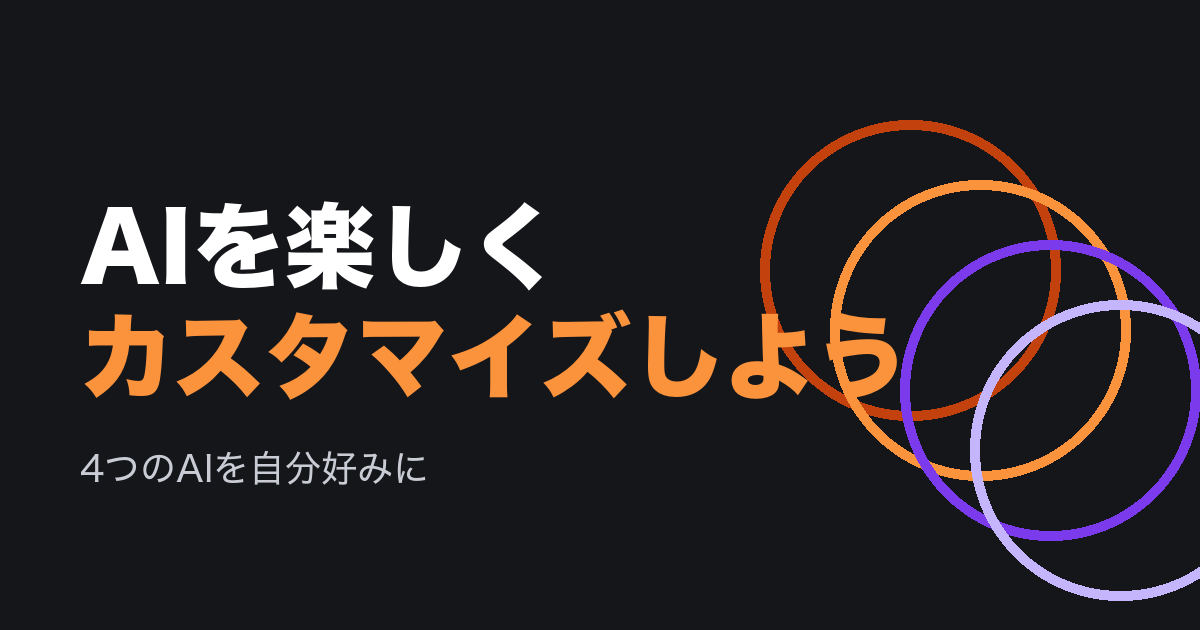
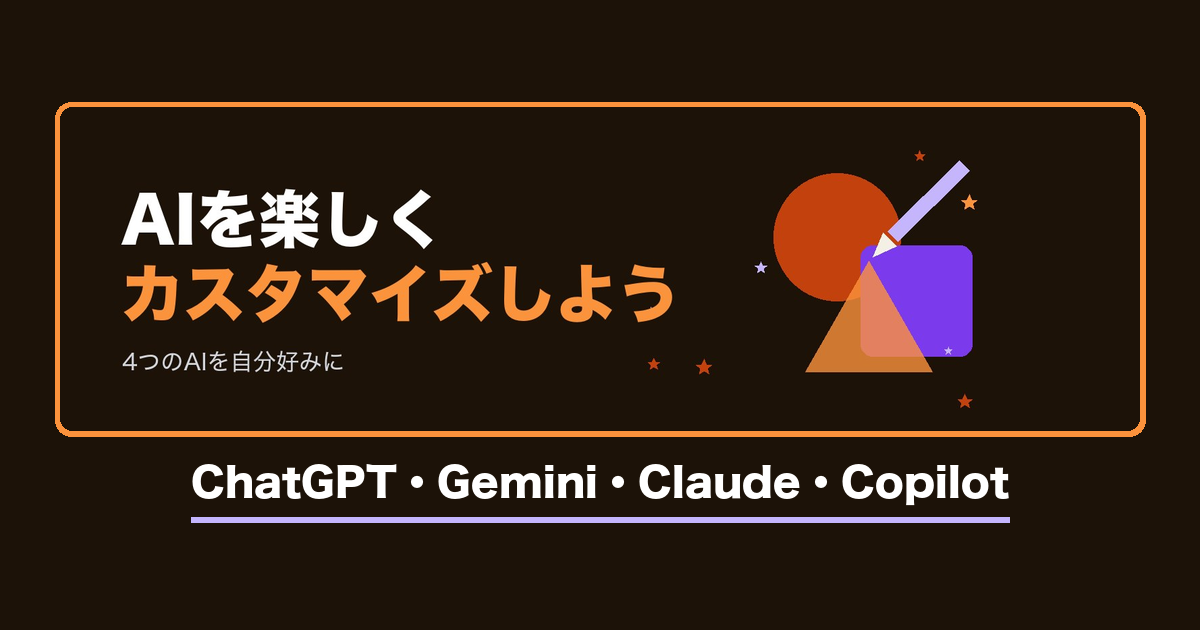
OGP画像（シェア時の画像）をヘッダーの絵とサイトの見た目に合わせて作り直す

Changed region(s): [[0.0308, 0.1508, 1.0, 0.9048], [0.8942, 0.9048, 1.0, 0.9651], [0.8633, 0.9048, 0.8942, 0.9349]]

diff --git a/make_og.py b/make_og.py
@@ -1,17 +1,119 @@
-"""SNS共有用の画像 docs/og.png（1200x630）を site.json の og 設定から作る。作品画像は使わず図形と文字だけ。"""
+"""SNS共有用の画像 docs/og.png（1200x630）を site.json の og 設定から作る。作品画像は使わず図形と文字だけ。
+og.style（neon / riso / citypop / notebook / frame）があるサイトは、ヘッダー画像（images.header_image）をサイトの見た目に合わせた枠で囲み、
+下に og.card_sub（無ければ og.sub）を置く（2026-10-27 本人「OGP画像もサイトごとに変えて」）。"""
 import json, os
-from PIL import Image, ImageDraw, ImageFont
+from PIL import Image, ImageDraw, ImageFont, ImageFilter
 ROOT = os.path.dirname(os.path.abspath(__file__))
-og = json.load(open(os.path.join(ROOT, "site.json"), encoding="utf-8"))["og"]
+cfg = json.load(open(os.path.join(ROOT, "site.json"), encoding="utf-8"))
+og = cfg["og"]
 W, H = 1200, 630
-im = Image.new("RGB", (W, H), "#15161a")
-d = ImageDraw.Draw(im)
-for i, c in enumerate(og["rings"]):
-    d.ellipse((760 + i * 70, 120 + i * 60, 1060 + i * 70, 420 + i * 60), outline=c, width=10)
-font = "/System/Library/Fonts/ヒラギノ角ゴシック W8.ttc"
-f1, f2 = ImageFont.truetype(font, 92), ImageFont.truetype(font.replace("W8", "W4"), 36)
-d.text((80, 200), og["line1"], font=f1, fill="#ffffff")
-d.text((80, 310), og["line2"], font=f1, fill=og["rings"][1])
-d.text((80, 450), og["sub"], font=f2, fill="#c9ccd4")
+GOTHIC = "/System/Library/Fonts/ヒラギノ角ゴシック W8.ttc"
+MARU = "/System/Library/Fonts/ヒラギノ丸ゴ ProN W4.ttc"
+
+
+def rings():
+    im = Image.new("RGB", (W, H), "#15161a")
+    d = ImageDraw.Draw(im)
+    for i, c in enumerate(og["rings"]):
+        d.ellipse((760 + i * 70, 120 + i * 60, 1060 + i * 70, 420 + i * 60), outline=c, width=10)
+    f1, f2 = ImageFont.truetype(GOTHIC, 92), ImageFont.truetype(GOTHIC.replace("W8", "W4"), 36)
+    d.text((80, 200), og["line1"], font=f1, fill="#ffffff")
+    d.text((80, 310), og["line2"], font=f1, fill=og["rings"][1])
+    d.text((80, 450), og["sub"], font=f2, fill="#c9ccd4")
+    return im
+
+
+def round_mask(size, r):
+    m = Image.new("L", size, 0)
+    ImageDraw.Draw(m).rounded_rectangle((0, 0, size[0] - 1, size[1] - 1), r, fill=255)
+    return m
+
+
+def glow(im, draw_fn, color, blur):
+    """draw_fn(ImageDraw) で描いた形を、ぼかした光として im に重ねる"""
+    m = Image.new("L", (W, H), 0)
+    draw_fn(ImageDraw.Draw(m))
+    m = m.filter(ImageFilter.GaussianBlur(blur))
+    im.paste(Image.new("RGB", (W, H), color), (0, 0), m)
+
+
+def styled(style):
+    hdr = Image.open(os.path.join(ROOT, cfg["images"]["header_image"])).convert("RGB")
+    iw = 1080
+    hdr = hdr.resize((iw, round(hdr.height * iw / hdr.width)), Image.LANCZOS)
+    if hdr.height > H - 132:  # 縦に長いヘッダーは、下の文字が入る高さまで縮める
+        hdr = hdr.resize((round(hdr.width * (H - 132) / hdr.height), H - 132), Image.LANCZOS)
+    iw, ih = hdr.size
+    x, y = (W - iw) // 2, (H - ih - 92) // 2
+    ty = y + ih + 30  # 下の文字の上端
+    sub = og.get("card_sub", og["sub"])
+    if style == "neon":  # ネオンのライブ会場
+        im = Image.new("RGB", (W, H), "#130c25")
+        glow(im, lambda d: d.ellipse((200, -380, 1000, 260), fill=255), "#3b1a6e", 60)
+        glow(im, lambda d: d.rounded_rectangle((x - 4, y - 4, x + iw + 4, y + ih + 4), 22, outline=255, width=12), "#ff4fc4", 14)
+        d = ImageDraw.Draw(im)
+        d.rounded_rectangle((x - 3, y - 3, x + iw + 3, y + ih + 3), 20, outline="#ffb3ea", width=3)
+        im.paste(hdr, (x, y), round_mask(hdr.size, 18))
+        f = ImageFont.truetype(MARU, 44)
+        tx = (W - d.textlength(sub, font=f)) / 2
+        glow(im, lambda d: d.text((tx, ty), sub, font=f, fill=255), "#ff4fc4", 8)
+        ImageDraw.Draw(im).text((tx, ty), sub, font=f, fill="#ffffff")
+    elif style == "riso":  # 版画風の紙
+        im = Image.new("RGB", (W, H), "#f6eedb")
+        d = ImageDraw.Draw(im)
+        for yy in range(0, H, 6):
+            for xx in range(0, W, 6):
+                d.point((xx, yy), fill="#e3d7bd")
+        d.rectangle((x + 12, y + 12, x + iw + 12, y + ih + 12), fill="#b8321c")
+        im.paste(hdr, (x, y))
+        d.rectangle((x - 2, y - 2, x + iw + 2, y + ih + 2), outline="#3a2416", width=5)
+        f = ImageFont.truetype(GOTHIC, 40)
+        tw = d.textlength(sub, font=f)
+        bx = (W - tw) / 2
+        d.rectangle((bx - 24 + 6, ty - 6 + 6, bx + tw + 24 + 6, ty + 56 + 6), fill="#3a2416")
+        d.rectangle((bx - 24, ty - 6, bx + tw + 24, ty + 56), fill="#d4920f", outline="#3a2416", width=4)
+        d.text((bx, ty + 2), sub, font=f, fill="#3a2416")
+    elif style == "citypop":  # 80 年代シティポップの夕暮れ
+        im = Image.new("RGB", (W, H))
+        d = ImageDraw.Draw(im)
+        for yy in range(H):
+            t = yy / H
+            d.line((0, yy, W, yy), fill=tuple(round(a + (b - a) * t) for a, b in ((0x2b, 0x17), (0x1f, 0x14), (0x5c, 0x3a))))
+        im.paste(hdr, (x, y), round_mask(hdr.size, 8))
+        for i, c in enumerate(("#ffb15c", "#ff7eb6", "#8e6bff")):
+            d.rectangle((x, y + ih + 10 + i * 8, x + iw, y + ih + 14 + i * 8), fill=c)
+        f = ImageFont.truetype(GOTHIC, 40)
+        d.text(((W - d.textlength(sub, font=f)) / 2, ty + 20), sub, font=f, fill="#ffffff")
+    elif style == "notebook":  # 白地の方眼ノート
+        im = Image.new("RGB", (W, H), "#ffffff")
+        d = ImageDraw.Draw(im)
+        for v in range(0, W, 24):
+            d.line((v, 0, v, H), fill="#e8ecfa")
+        for v in range(0, H, 24):
+            d.line((0, v, W, v), fill="#e8ecfa")
+        d.rounded_rectangle((x + 10, y + 10, x + iw + 10, y + ih + 10), 16, fill="#ffe34d")
+        im.paste(hdr, (x, y), round_mask(hdr.size, 14))
+        d.rounded_rectangle((x - 2, y - 2, x + iw + 2, y + ih + 2), 16, outline="#14215a", width=4)
+        f = ImageFont.truetype(GOTHIC, 40)
+        tw = d.textlength(sub, font=f)
+        bx = (W - tw) / 2
+        d.rectangle((bx - 6, ty + 30, bx + tw + 6, ty + 52), fill="#ffe34d")
+        d.text((bx, ty + 4), sub, font=f, fill="#14215a")
+    elif style == "frame":  # 決まった見た目のないサイト: images.bg の地にアクセント色の枠
+        col = cfg["colors"]
+        im = Image.new("RGB", (W, H), cfg["images"].get("bg", "#15161a"))
+        d = ImageDraw.Draw(im)
+        d.rounded_rectangle((x - 5, y - 5, x + iw + 5, y + ih + 5), 16, fill=col["ACCENT_D"])
+        im.paste(hdr, (x, y), round_mask(hdr.size, 12))
+        f = ImageFont.truetype(GOTHIC, 40)
+        tw = d.textlength(sub, font=f)
+        d.text(((W - tw) / 2, ty), sub, font=f, fill="#ffffff")
+        d.rectangle(((W - tw) / 2, ty + 56, (W + tw) / 2, ty + 61), fill=col["ACCENT2_D"])
+    else:
+        return rings()
+    return im
+
+
+im = styled(og["style"]) if og.get("style") and cfg.get("images", {}).get("header_image") else rings()
 os.makedirs(os.path.join(ROOT, "docs"), exist_ok=True)
 im.save(os.path.join(ROOT, "docs", "og.png"))
